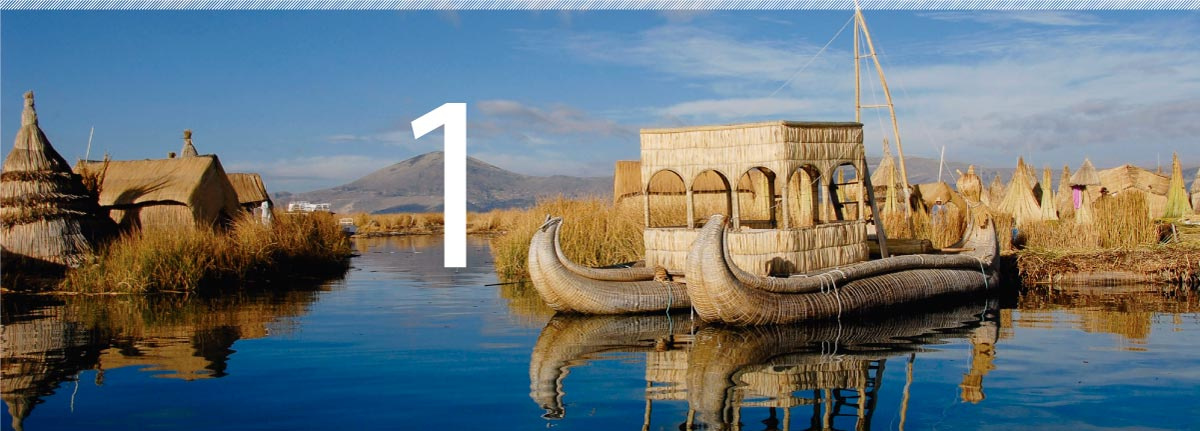
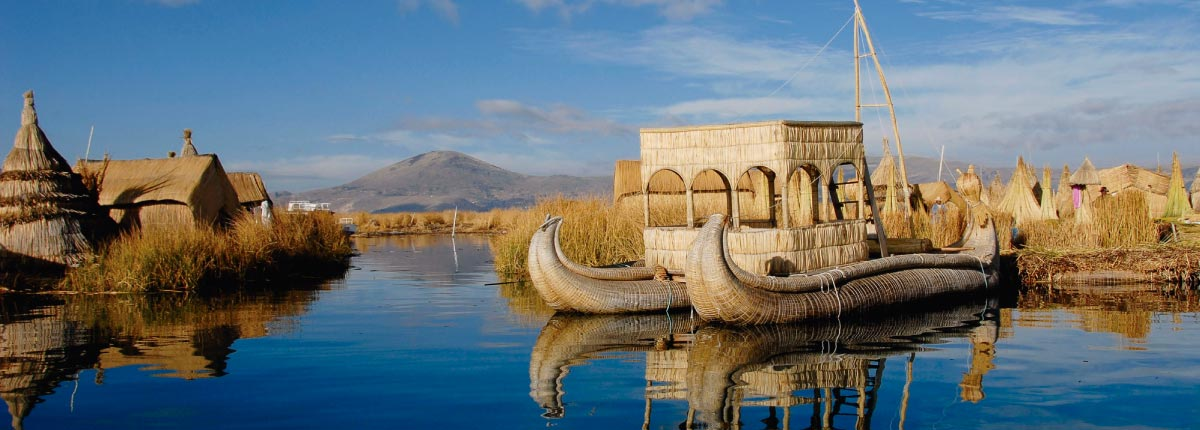
listos cambios solicitados

diff --git a/css/estilos.css b/css/estilos.css
@@ -781,15 +781,16 @@ body{
 	width: 70%;
 }
 .guia{
-	display: flex;
 	margin-bottom: 5%;
 	width: 365px;
 }
 .guia img{
+	float: left;
 	height: 100%;
 	width: 150px;
 }
 .texto-guia{
+	float: left;
 	margin-left: 3%;
 }
 .guia h3{
@@ -1017,6 +1018,7 @@ footer img{
 	font-family: "arcena";
 	font-size: 2em;
 	margin: 0;
+	margin-bottom: 5%;
 }
 .gastronomia-peru span{
 	color: #385794;
@@ -1338,15 +1340,13 @@ footer img{
 	margin-bottom: 0;
 }
 .izquierda-lacustre{
-	border-right: 2px solid #5C5C5C;
-	float: left;
-	margin-right: 5%;
-	width: 55%;
+	margin: 0 auto;
+	width: 95%;
 }
 .izquierda-lacustre img{
 	padding-bottom: 5%;
 	padding-top: 10%;
-	width: 95%;
+	width: 100%;
 }
 .derecha-lacustre{
 	float: left;

diff --git a/transporte-terrestre.php b/transporte-terrestre.php
@@ -55,84 +55,84 @@
 		
 
 		<div class="contenedor-terrestre">
-			<h3><i class="fa fa-caret-right" aria-hidden="true"></i> BUSES / H1 / SPRINTER / AUTOS/</h3>
+			<h3><i class="fa fa-caret-right" aria-hidden="true"></i> TRANSPORTES PARA NUESTROS PASAJEROS</h3>
 			
 			<div class="opcion-terrestre">
 				<a href="carro1.php"><img src="img/carro1.png"></a>
-				<a href="carro1.php"><h4>Nissan H1 (12 pasajeros):</h4></a>
-				<p>• Asientos reclinables a 140 °<br>
-				• GPS<br>
-				• Acondicionador de aire<br>
-				• Cine / Video TV<br>
-				• Servicio de WiFi<br>
-				• AUDIO<br>
-				• Puntos de venta<br>
-				• Velocidad controlada</p>
+					<!-- <a href="carro1.php"><h4>Nissan H1 (12 pasajeros):</h4></a>
+					<p>• Asientos reclinables a 140 °<br>
+					• GPS<br>
+					• Acondicionador de aire<br>
+					• Cine / Video TV<br>
+					• Servicio de WiFi<br>
+					• AUDIO<br>
+					• Puntos de venta<br>
+					• Velocidad controlada</p> -->
 			</div>
 
 			<div class="opcion-terrestre">
 				<img src="img/carro2.png">
-				<h4>Nissan H1 (12 pasajeros):</h4>
-				<p>• Asientos reclinables a 140 °<br>
-				• GPS<br>
-				• Acondicionador de aire<br>
-				• Cine / Video TV<br>
-				• Servicio de WiFi<br>
-				• AUDIO<br>
-				• Puntos de venta<br>
-				• Velocidad controlada</p>
+					<!-- <h4>Nissan H1 (12 pasajeros):</h4>
+					<p>• Asientos reclinables a 140 °<br>
+					• GPS<br>
+					• Acondicionador de aire<br>
+					• Cine / Video TV<br>
+					• Servicio de WiFi<br>
+					• AUDIO<br>
+					• Puntos de venta<br>
+					• Velocidad controlada</p> -->
 			</div>
 
 			<div class="opcion-terrestre">
 				<img src="img/carro3.png">
-				<h4>Nissan H1 (12 pasajeros):</h4>
-				<p>• Asientos reclinables a 140 °<br>
-				• GPS<br>
-				• Acondicionador de aire<br>
-				• Cine / Video TV<br>
-				• Servicio de WiFi<br>
-				• AUDIO<br>
-				• Puntos de venta<br>
-				• Velocidad controlada</p>
+					<!-- <h4>Nissan H1 (12 pasajeros):</h4>
+					<p>• Asientos reclinables a 140 °<br>
+					• GPS<br>
+					• Acondicionador de aire<br>
+					• Cine / Video TV<br>
+					• Servicio de WiFi<br>
+					• AUDIO<br>
+					• Puntos de venta<br>
+					• Velocidad controlada</p> -->
 			</div>
 
 			<div class="opcion-terrestre">
 				<img src="img/carro4.png">
-				<h4>Nissan H1 (12 pasajeros):</h4>
-				<p>• Asientos reclinables a 140 °<br>
-				• GPS<br>
-				• Acondicionador de aire<br>
-				• Cine / Video TV<br>
-				• Servicio de WiFi<br>
-				• AUDIO<br>
-				• Puntos de venta<br>
-				• Velocidad controlada</p>
+					<!-- <h4>Nissan H1 (12 pasajeros):</h4>
+					<p>• Asientos reclinables a 140 °<br>
+					• GPS<br>
+					• Acondicionador de aire<br>
+					• Cine / Video TV<br>
+					• Servicio de WiFi<br>
+					• AUDIO<br>
+					• Puntos de venta<br>
+					• Velocidad controlada</p> -->
 			</div>
 
 			<div class="opcion-terrestre">
 				<img src="img/carro5.png">
-				<h4>Nissan H1 (12 pasajeros):</h4>
-				<p>• Asientos reclinables a 140 °<br>
-				• GPS<br>
-				• Acondicionador de aire<br>
-				• Cine / Video TV<br>
-				• Servicio de WiFi<br>
-				• AUDIO<br>
-				• Puntos de venta<br>
-				• Velocidad controlada</p>
+					<!-- <h4>Nissan H1 (12 pasajeros):</h4>
+					<p>• Asientos reclinables a 140 °<br>
+					• GPS<br>
+					• Acondicionador de aire<br>
+					• Cine / Video TV<br>
+					• Servicio de WiFi<br>
+					• AUDIO<br>
+					• Puntos de venta<br>
+					• Velocidad controlada</p> -->
 			</div>
 
 			<div class="opcion-terrestre">
 				<img src="img/carro6.png">
-				<h4>Nissan H1 (12 pasajeros):</h4>
-				<p>• Asientos reclinables a 140 °<br>
-				• GPS<br>
-				• Acondicionador de aire<br>
-				• Cine / Video TV<br>
-				• Servicio de WiFi<br>
-				• AUDIO<br>
-				• Puntos de venta<br>
-				• Velocidad controlada</p>
+					<!-- <h4>Nissan H1 (12 pasajeros):</h4>
+					<p>• Asientos reclinables a 140 °<br>
+					• GPS<br>
+					• Acondicionador de aire<br>
+					• Cine / Video TV<br>
+					• Servicio de WiFi<br>
+					• AUDIO<br>
+					• Puntos de venta<br>
+					• Velocidad controlada</p> -->
 			</div>
 
 			<div class="clear"></div>

diff --git a/servicios-transporte.php b/servicios-transporte.php
@@ -78,25 +78,25 @@
 		<div id="hoteles-todos" style="display:none;">
 			<h3>LISTA DE HOTELES</h3>
 			
-			<h4><i class="fa fa-caret-right" aria-hidden="true"></i> LIMA <span><i class="fa fa-star" aria-hidden="true"></i> <i class="fa fa-star" aria-hidden="true"></i> <i class="fa fa-star" aria-hidden="true"></i> <i class="fa fa-star" aria-hidden="true"></i> <i class="fa fa-star" aria-hidden="true"></i></span></h4>
+			<h4><i class="fa fa-caret-right" aria-hidden="true"></i> LIMA</h4>
 
 			<?php
 				include 'hoteles-5-estrellas.php';
 			?>
 
-			<h4><i class="fa fa-caret-right" aria-hidden="true"></i> LIMA <span><i class="fa fa-star" aria-hidden="true"></i> <i class="fa fa-star" aria-hidden="true"></i> <i class="fa fa-star" aria-hidden="true"></i> <i class="fa fa-star" aria-hidden="true"></i></span> SUPERIOR</h4>
+			<h4><i class="fa fa-caret-right" aria-hidden="true"></i> CUSCO</h4>
 
 			<?php
 				include 'hoteles-4-estrellas+.php';
 			?>
 
-			<h4><i class="fa fa-caret-right" aria-hidden="true"></i> LIMA <span><i class="fa fa-star" aria-hidden="true"></i> <i class="fa fa-star" aria-hidden="true"></i> <i class="fa fa-star" aria-hidden="true"></i> <i class="fa fa-star" aria-hidden="true"></i></span></h4>
+			<h4><i class="fa fa-caret-right" aria-hidden="true"></i> OTRA CIUDAD</h4>
 
 			<?php
 				include 'hoteles-4-estrellas.php';
 			?>
 
-			<h4><i class="fa fa-caret-right" aria-hidden="true"></i> LIMA <span><i class="fa fa-star" aria-hidden="true"></i> <i class="fa fa-star" aria-hidden="true"></i> <i class="fa fa-star" aria-hidden="true"></i></span></h4>
+			<h4><i class="fa fa-caret-right" aria-hidden="true"></i> OTRA CIUDAD</h4>
 
 			<?php
 				include 'hoteles-3-estrellas.php';

diff --git a/servicios.php b/servicios.php
@@ -194,25 +194,25 @@
 		<div id="hoteles-todos">
 			<h3>LISTA DE HOTELES</h3>
 			
-			<h4><i class="fa fa-caret-right" aria-hidden="true"></i> LIMA <span><i class="fa fa-star" aria-hidden="true"></i> <i class="fa fa-star" aria-hidden="true"></i> <i class="fa fa-star" aria-hidden="true"></i> <i class="fa fa-star" aria-hidden="true"></i> <i class="fa fa-star" aria-hidden="true"></i></span></h4>
+			<h4><i class="fa fa-caret-right" aria-hidden="true"></i> LIMA</h4>
 
 			<?php
 				include 'hoteles-5-estrellas.php';
 			?>
 
-			<h4><i class="fa fa-caret-right" aria-hidden="true"></i> LIMA <span><i class="fa fa-star" aria-hidden="true"></i> <i class="fa fa-star" aria-hidden="true"></i> <i class="fa fa-star" aria-hidden="true"></i> <i class="fa fa-star" aria-hidden="true"></i></span> SUPERIOR</h4>
+			<h4><i class="fa fa-caret-right" aria-hidden="true"></i> CUSCO</h4>
 
 			<?php
 				include 'hoteles-4-estrellas+.php';
 			?>
 
-			<h4><i class="fa fa-caret-right" aria-hidden="true"></i> LIMA <span><i class="fa fa-star" aria-hidden="true"></i> <i class="fa fa-star" aria-hidden="true"></i> <i class="fa fa-star" aria-hidden="true"></i> <i class="fa fa-star" aria-hidden="true"></i></span></h4>
+			<h4><i class="fa fa-caret-right" aria-hidden="true"></i> OTRA CIUDAD</h4>
 
 			<?php
 				include 'hoteles-4-estrellas.php';
 			?>
 
-			<h4><i class="fa fa-caret-right" aria-hidden="true"></i> LIMA <span><i class="fa fa-star" aria-hidden="true"></i> <i class="fa fa-star" aria-hidden="true"></i> <i class="fa fa-star" aria-hidden="true"></i></span></h4>
+			<h4><i class="fa fa-caret-right" aria-hidden="true"></i> OTRA CIUDAD</h4>
 
 			<?php
 				include 'hoteles-3-estrellas.php';

diff --git a/index.php b/index.php
@@ -64,7 +64,8 @@
 			<img src="img/ubicacion.gif">
 			<p>			
 			<span>Dirección:</span><br>
-			lorem ipsum<br>
+			Edificio las Moreras 810 Residencial<br>
+			San Felipe Jesús María<br>
 			Lima, Perú
 			</p>
 		</div>
@@ -72,14 +73,14 @@
 			<img src="img/mensaje.gif">
 			<p>
 			<span>E-Mail:</span><br>
-			<a href="">email@servidor.com</a><br>
+			<a href="">informes@kanchay.com</a><br>
 			</p>
 		</div>
 		<div class="datos">
 			<img src="img/telefono.gif">
 			<p>
 			<span>Teléfono:</span><br>
-			<a href="">987 654 321</a><br>
+			<a href="">051 976 348 191</a><br>
 			</p>
 		</div>
 		<div class="clear"></div>
@@ -390,6 +391,7 @@
 					<span>Paracas - Nazca</span>
 					</p>
 				</div>
+				<div class="clear"></div>
 			</div>
 
 			<div class="guia der">
@@ -404,6 +406,7 @@
 					<span>Paracas - Nazca - Arequipa - Cuzco</span>
 					</p>
 				</div>
+				<div class="clear"></div>
 			</div>
 
 			<div class="guia izq">
@@ -418,6 +421,7 @@
 				<span>Paracas - Nazca</span>
 				</p>
 				</div>
+				<div class="clear"></div>
 			</div>
 
 			<div class="guia der">
@@ -432,6 +436,7 @@
 				<span>Paracas - Nazca - Arequipa - Puno - Cuzco</span>
 				</p>
 				</div>
+				<div class="clear"></div>
 			</div>
 
 			<div class="guia izq">
@@ -446,6 +451,7 @@
 				<span>Paracas - Nazca - Arequipa - Puno - Cuzco</span>
 				</p>
 				</div>
+				<div class="clear"></div>
 			</div>
 
 			<div class="guia der">
@@ -460,6 +466,7 @@
 				<span>Paracas - Nazca -Arequipa - Puno - Cuzco</span>
 				</p>
 				</div>
+				<div class="clear"></div>
 			</div>
 
 			<div class="clear"></div>

diff --git a/gastronomia.php b/gastronomia.php
@@ -39,14 +39,11 @@
 
 
 	<div class="fondo-azulclaro">
-		<div class="titulo-gastronomia"><img src="img/paquetes-kanchay-peru.png"><h2>TOURS</h2></div>
 		<img class="portada-gastronomia" src="img/portada-tours.jpg">
 
 		<div class="gastronomia-peru">
 			<h3>Gastronomía del Perú</h3>
 			<div class="izquierda-gastronomia">
-				<p><span>DÍA 04:</span> CUSCO - SALIDA (D)<br><br>
-				<span>IMPORTANTE:</span><br><br>
 				La gastronomía del Perú es muy diversa, tanto que el libro 357 listas para entender cómo somos los peruanos llega a contar hasta 491 platos típicos.1<br><br>
 
 				La cocina peruana es el resultado de la fusión inicial de la tradición culinaria del antiguo Perú —con sus propias técnicas y potajes— con la cocina española en su variante más fuertemente influenciada por 762 años de presencia morisca en la Península Ibérica y con importante aporte de las costumbres culinarias traídas de la costa atlántica del África subsahariana por los esclavos.<br><br>
@@ -59,8 +56,6 @@
 			</div>
 
 			<div class="derecha-gastronomia">
-				<p><span>DÍA 04:</span> CUSCO - SALIDA (D)<br><br>
-				<span>IMPORTANTE:</span><br><br>
 				<span>•</span>  Programas a machu picchu incluyen tren expediition, si desean viajar en tren vistadome agregar $ 35.00<br>
 				<span>•</span>  Sugerimos tomar el almuerzo en machu picchu sanctuary lodge para tener más tiempo. se debera agregar usd$ 35.00. <br>
 				<span>•</span>  Tarifas en dolares americanos, para pagar en soles aplicar el tipo de cambio del    día (bcr).<br>

diff --git a/contacto.php b/contacto.php
@@ -46,13 +46,13 @@
 
 		  	<div class="datos-contacto-final">
 		  		<div class="datos-final">
-		  			<img src="img/ubicacion-blanco.png"><p>Lima, Perú</p>
+		  			<img src="img/ubicacion-blanco.png"><p>Edificio las Moreras 810 Residencial<br>	San Felipe Jesús María<br> Lima, Perú</p>
 		  		</div>
 		  		<div class="datos-final">
-		  			<img src="img/mensaje-blanco.png"><p><a href="">correo@dominio.com</p></a>
+		  			<img src="img/mensaje-blanco.png"><p><a href="">informes@kanchay.com</p></a>
 		  		</div>
 		  		<div class="datos-final">
-		  			<img src="img/telefono-blanco.png"><p><a href="">987 654 321</a></p>
+		  			<img src="img/telefono-blanco.png"><p><a href="">051 976 348 191</a></p>
 		  		</div>
 		  	</div>
 		</div>

diff --git a/transporte-lacustre.php b/transporte-lacustre.php
@@ -55,13 +55,13 @@
 		
 
 		<div class="contenedor-lacustre">
-			<h3><i class="fa fa-caret-right" aria-hidden="true"></i> CATAMARAN</h3>
+			<h3><i class="fa fa-caret-right" aria-hidden="true"></i> TRANSPORTE EN EL LAGO TITICACA</h3>
 			
 			<div class="opcion-lacustre">
 				<div class="izquierda-lacustre">
 					<img src="img/transporte-lacustre.png">
 				</div>
-				<div class="derecha-lacustre">
+				<!-- <div class="derecha-lacustre">
 					<h5>CATAMARAN</h5>
 					<p>• Servicio a bordo<br>
 					• Equipo salvavidas<br>
@@ -72,7 +72,7 @@
 					• Ipsum lorem<br>
 					• AUDIO<br>
 					• Velocidad controlada</p>
-				</div>
+				</div> -->
 
 				<div class="clear"></div>
 			</div>

diff --git a/transporte-aereo.php b/transporte-aereo.php
@@ -55,7 +55,7 @@
 		
 
 		<div class="contenedor-aereo">
-			<h3><i class="fa fa-caret-right" aria-hidden="true"></i> AVIÓN DS10 BOEING</h3>
+			<h3><i class="fa fa-caret-right" aria-hidden="true"></i> AVIÓN</h3>
 			
 			<div class="opcion-aereo">
 				<div class="izquierda-aereo">
